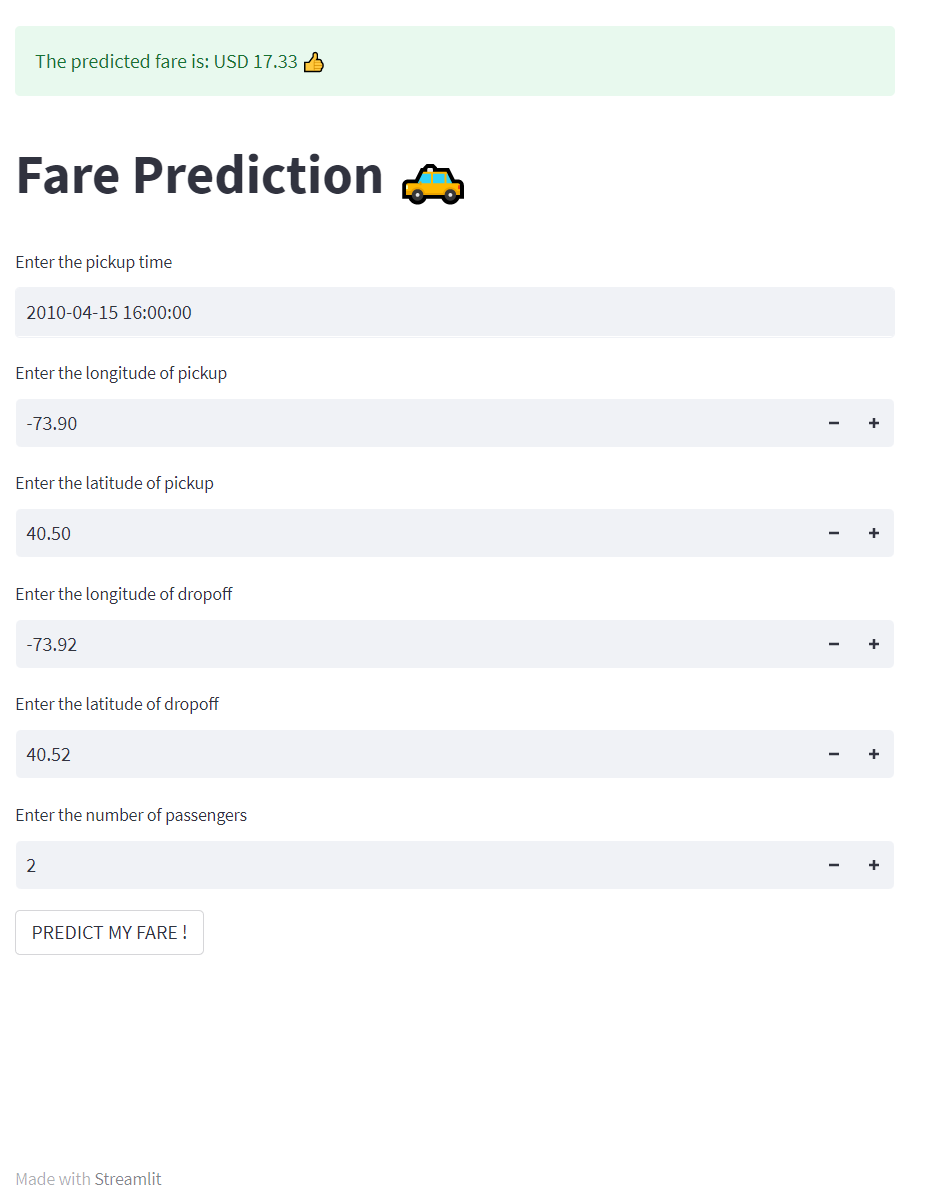
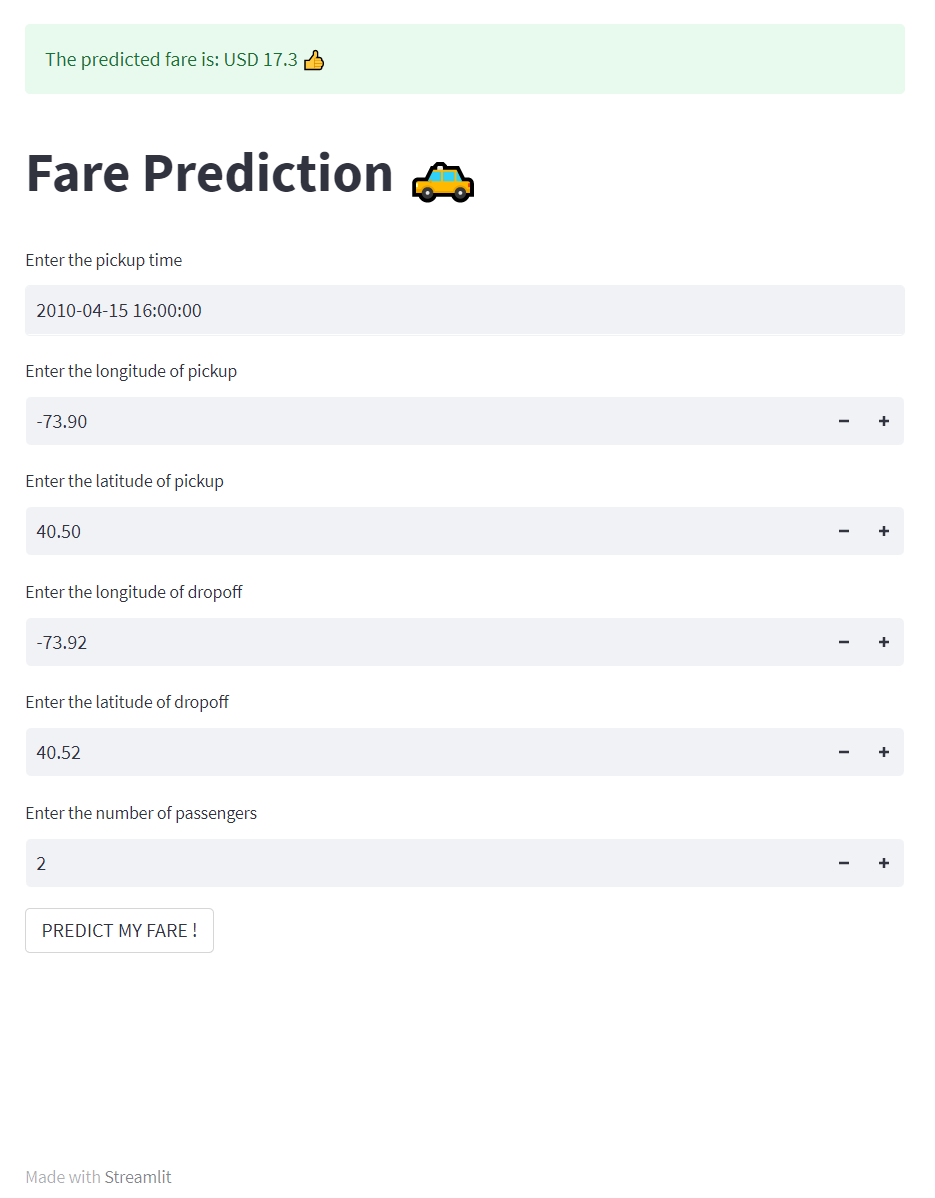
Updated app.py
Updated app.py to remove randomness by adding torch.manual_seed()
Updated screenshot as well

diff --git a/app.py b/app.py
@@ -5,39 +5,9 @@ import numpy as np
 import matplotlib.pyplot as plt
 import streamlit as slt
 from utils import preprocessing
+from model import FarePredictor
 
-class FarePredictor(nn.Module):
-    def __init__(self,cat_cols,cont_cols,layer_count,output_features,embed_size_list,p=0.5): 
-        super().__init__()
-        self.output_features=output_features
-        self.layer_count=layer_count
-        self.embed_size_list=embed_size_list
-        self.embeddings=[nn.Embedding(base_dim, target_dim) for base_dim, target_dim in embed_size_list]
-        n_cont=cont_cols.shape[1]
-        self.batch_norm=nn.BatchNorm1d(n_cont)
-        self.dropout=nn.Dropout(p=0.5)
-        n_cont=cont_cols.shape[1]
-        n_in=sum(nf for ni,nf in self.embed_size_list)+n_cont
-        self.layers=[]
-        for l in self.layer_count:
-            self.layers.append(nn.Linear(n_in,l))
-            self.layers.append(nn.ReLU(inplace=True))
-            self.layers.append(nn.Dropout(p))
-            self.layers.append(nn.BatchNorm1d(l))            
-            n_in=l
-        self.layers.append(nn.Linear(self.layer_count[-1],self.output_features))
-        self.final_layers=nn.Sequential(*self.layers)
-        
-    def forward(self,cat_cols, cont_cols):
-        embeds=[]
-        for i,e in enumerate(self.embeddings):
-            embeds.append(e(cat_cols[:,i]))
-        cat_final=torch.cat(embeds,axis=1)
-        cont_cols=self.batch_norm(cont_cols)
-        cat_final=self.dropout(cat_final)
-        self.X=torch.cat((cat_final, cont_cols),axis=1)
-        self.X=self.final_layers(self.X)
-        return self.X
+torch.manual_seed(33)
 
 slt.title('Fare Prediction :taxi:')
 pickup_time=slt.text_input('Enter the pickup time', '2010-04-15 16:00:00')
@@ -55,9 +25,6 @@ fare_predictor.eval()
 
 def predict():
     cat_cols, cont_cols = preprocessing(pickup_time,pickup_longitude,pickup_latitude,dropoff_longitude,dropoff_latitude,passenger_count)
-    #fare_predictor=FarePredictor(cat_cols,cont_cols,layer_count=[200,100],output_features=1,embed_size_list=[(24, 12), (7, 4), (2, 1)],p=0.4)
-    # fare_predictor.load_state_dict(torch.load('uber_model_weights.pt'))
-    # fare_predictor.eval()
     with torch.no_grad():
         value=fare_predictor.forward(cat_cols,cont_cols).item()
         slt.success('The predicted fare is: USD '+str(round(value,2))+'   :thumbsup:')
